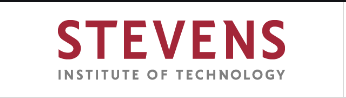
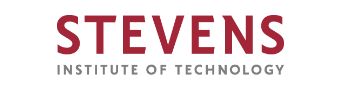
edited a bit more and changed out the image in the assets

diff --git a/index.html b/index.html
@@ -8,15 +8,23 @@
   <body>
     <header class="cent">
       <img src="image assets/Screenshot 2024-11-10 150500.png" alt="Stevens Emblem">
-      <h1>Welcome to the SMART Homepage!</h1>
     </header> 
       <main>
+        <h1>Welcome to the SMART Homepage!</h1>
         <nav>
           <ul>
-            <li><a href="index.html">Page 1</a></li>
+            <li><a href="index.html">Pierce Dining Hall</a></li>
+            <li><a href="temp.html">UCC Dining hall</a></li>
           </ul>
         </nav>
-        <p>Lorem ipsum</p>
+        <div class="H1D">
+          <p>
+            <h2>About our project</h2>
+            Our purpose is to greatly improve and simplify the dining experience on campus, so that 
+            the eating experience of student and staff can be more enjoyable. Right now, it can feel
+            like going to eat on campus can easily be a dissapointing 
+          </p>
+        </div>
       </main>
   </body>
 </html>

diff --git a/styles.css b/styles.css
@@ -1,5 +1,5 @@
 body {
-    background-color: lightgray;
+    background-color: white;
 }
 
 header {
@@ -7,8 +7,12 @@ header {
 }
 
 .cent {
-    display: block;
     margin-left: auto;
     margin-right: auto;
     width: 50%;
+}
+
+.H1D {
+    border: 1px solid black;
+    background-color: lightgray;
 }
